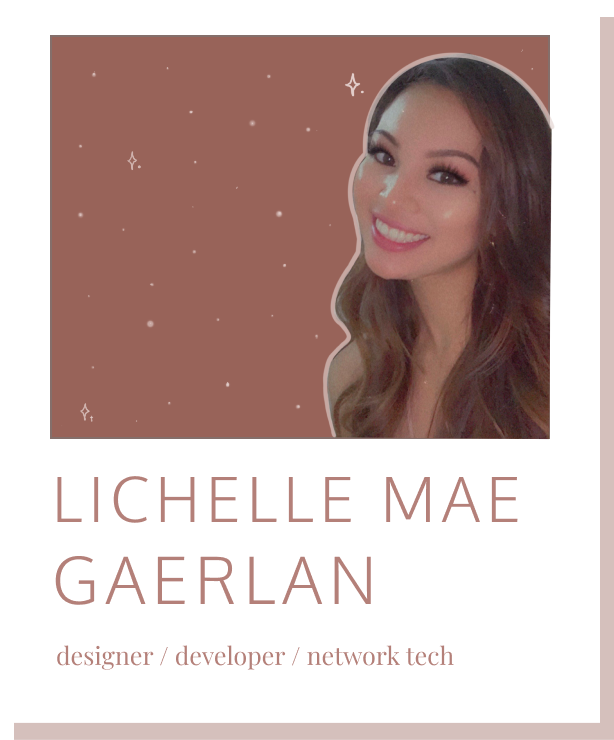
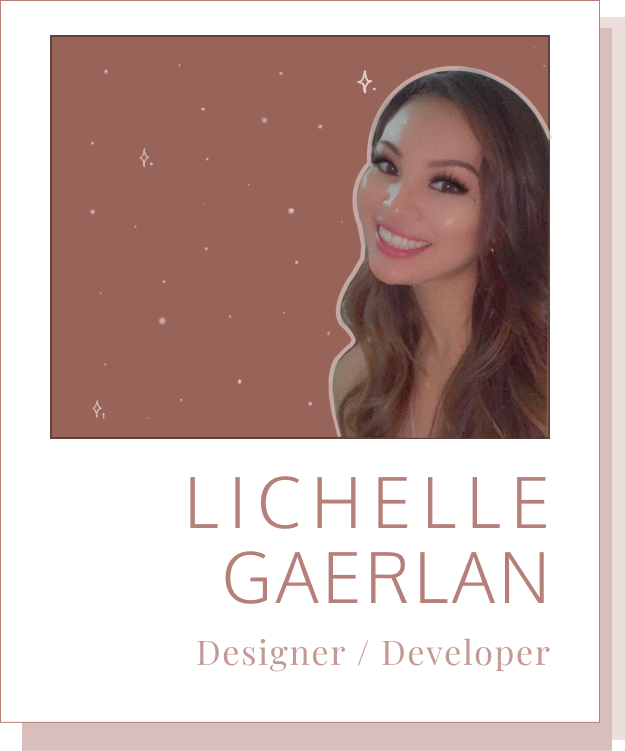
about layout done (still need to add my process popup)

diff --git a/src/Components/About.js b/src/Components/About.js
@@ -1,43 +1,89 @@
 import React from 'react';
 
 import { Container, Row, Col } from 'react-bootstrap';
+import { Link } from 'react-router-dom';
+
+import Contact from './Contact.js';
 
 import './About.css';
-import AboutPic from './about.png';
+// import AboutPic from './about.png';
+import AboutPic from './about_lighter.png';
+import Devices from './devices.svg';
+import OS from './os.svg';
+import Other from './other.svg';
 
 export default props => {
     return(
-        <div className="about-pg">
-            <Container>
-                <Row>
-                    <Col xs={12} sm={12} md={4} lg={4}>
-                        <img src={AboutPic} className="about-polaroid" />
-                    </Col>
+        <div>
+            <div className="about-pg">
+                <Container>
+                    <Row>
+                        <Col xs={12} sm={12} md={4} lg={4} className="col-styles">
+                            <h1 className="about-headers">About</h1>
+                            <br/>
 
-                    <Col xs={12} sm={12} md={4} lg={4}>
-                        <h1>bio</h1>
-                    </Col>
+                            <img src={AboutPic} className="about-polaroid" />
+                            <br/><br/>
 
-                    <Col xs={12} sm={12} md={4} lg={4}>
-                        <h2>goals</h2>
-                    </Col>
-                </Row>
+                            {/* <p className="about-links-container">
+                                <a href="https://www.github.com/lichellegaerlan" className="about-links" target="_blank">Github</a> / <a href="https://www.linkedin.com/lichellemaegaerlan" className="about-links" target="_blank">LinkedIn</a> / <a className="about-links" href="mailto:lichellemaegaerlan@gmail.com">Mail</a>
+                            </p> */}
+                            {/* <button className="portfolio-button">My Portfolio</button> */}
+                            <br/>
+                        </Col>
 
-                {/* will probably need 2 rows worth of content l8r */}
-                {/* <Row>
-                    <Col xs={12} sm={12} md={4} lg={4}>
-                        <img src={AboutPic} className="about-polaroid" />
-                    </Col>
+                        <Col xs={12} sm={12} md={4} lg={4} className="col-styles" style={{ paddingRight: "20px"}}>
+                            <h1 className="about-headers">Bio</h1>
+                            <p className="about-text">
+                                My passion for technology and design began when I was a kid who was just
+                                creating HTML/CSS layouts on MySpace and Tumblr. <br/><br/>
 
-                    <Col xs={12} sm={12} md={4} lg={4}>
-                        <h1>bio</h1>
-                    </Col>
+                                Later on, I decided to pursue a degree in Computer Science from the University of Nevada, Las Vegas
+                                because I truly enjoyed spending my free-time creating beautiful, functional aesthetics and experiences during
+                                my early web development days. In my last semester of university, I took a Software Product Design course, where I 
+                                gained experience in conducting user research, creating prototypes, and improving my responsive frontend development skills. This course
+                                truly made me fall in love with combining design and code. <br/><br/>
 
-                    <Col xs={12} sm={12} md={4} lg={4}>
-                        <h2>goals</h2>
-                    </Col>
-                </Row> */}
-            </Container>
+                                As a designer, I love the process of creating meaningful experiences for users. I enjoy empathizing with
+                                users in order to pinpoint their problems and design creative solutions. I am passionate about how design and
+                                technology can bring about change in a vast majority of fields, like business, marketing, and education. <br/><br/>
+
+                                <button className="process-button">My Process</button>
+                                <button className="process-button"><Link to="/portfolio" className="process-link" target="_blank">My Portfolio</Link></button>
+                            </p>
+                        </Col>
+
+                        <Col xs={12} sm={12} md={4} lg={4} className="col-styles">
+                            <h1 className="about-headers">Personality</h1>
+                            <p className="about-text">
+                                <a href="https://www.16personalities.com/intj-personality" className="about-links" target="_blank"><b>The Architect (INTJ)</b></a> — 16Personalities <br/>
+                                "Imaginative and strategic thinkers, with a plan for everything.
+                                These thoughtful tacticians love perfecting the details of life, 
+                                applying creativity and rationality to everything they do."
+                            </p>
+                            <br/>
+
+                            <h2 className="about-headers">Goals</h2>
+                            <p className="about-text">
+                            <font color="#794f47">‣</font> To use my talent and creativity to create unique solutions <br/>
+                            <font color="#794f47">‣</font> To use my passion and drive for design, code, and customer service in useful ways <br/>
+                            <font color="#794f47">‣</font> To use my skills to contribute to a team, and to continually build my skills in turn
+                            </p>
+                            <br/>
+
+                            <h2 className="about-headers">Tech Usage</h2>
+                            <p className="about-text">
+                            <img src={Devices} height="11px" width="11px" /><span className="tab">Devices: Macbook Pro, iPad Pro, iPhone</span> <br/>
+                            <img src={OS} height="11px" width="11px" /><span className="tab">Operating Systems: Linux, Mac OS X, Windows</span> <br/>
+                            <img src={Other} height="11px" width="11px" /><span className="tab">Other: IT, Computer Networks</span> <br/>
+                            </p>
+                        </Col>
+                    </Row>
+
+                </Container>
+            </div>
+
+            <Contact />
         </div>
     );
 }

diff --git a/src/Components/About.css b/src/Components/About.css
@@ -1,7 +1,12 @@
 .about-pg {
     height: 100vh;
     padding-top: 10%;
+    margin-bottom: 5%;
 }
+
+/* .col-styles {
+    padding-left: 5%;
+} */
 
 .about-polaroid {
     /* width to height ratio is 83%, as in height = 100%, width = 83% */
@@ -10,4 +15,71 @@
     text-align: center;
     justify-content: center;
     justify-items: center;
+}
+
+.about-links-container {
+    margin-top: 10%;
+}
+
+.about-links {
+    color: #794f47;
+    text-decoration: none;
+}
+
+.about-links:hover {
+    color: #794f47;
+    font-style: italic;
+    text-decoration: none;
+}
+
+.about-headers {
+    font-family: "Oxygen";
+    font-weight: 100;
+    color: #794f47;
+    text-align: left;
+    letter-spacing: 2px;
+    font-size: 150%;
+}
+
+.about-text {
+    text-align: left;
+    font-size: 80%;
+}
+
+.process-button {
+    font-family: 'Muli';
+    font-size: 100%;
+    font-weight: 100;
+    text-transform: uppercase;
+    background-color: #bb8c86;
+    color: #fff;
+    border: none;
+    /* padding: top right bottom left */
+    padding: 2% 8% 2% 8%;
+    text-align: left;
+    border-radius: 5px;
+
+    display: inline-block;
+    margin-right: 20px;
+}
+
+.process-button:hover {
+    font-weight: 600;
+    color: #986359;
+    background-color: #fff;
+}
+
+.process-link {
+    color: #fff;
+    text-decoration: none;
+}
+
+.process-link:hover {
+    color: #986359;
+    text-decoration: none;
+}
+
+.tab { 
+    display: inline-block; 
+    margin-left: 20px; 
 }
